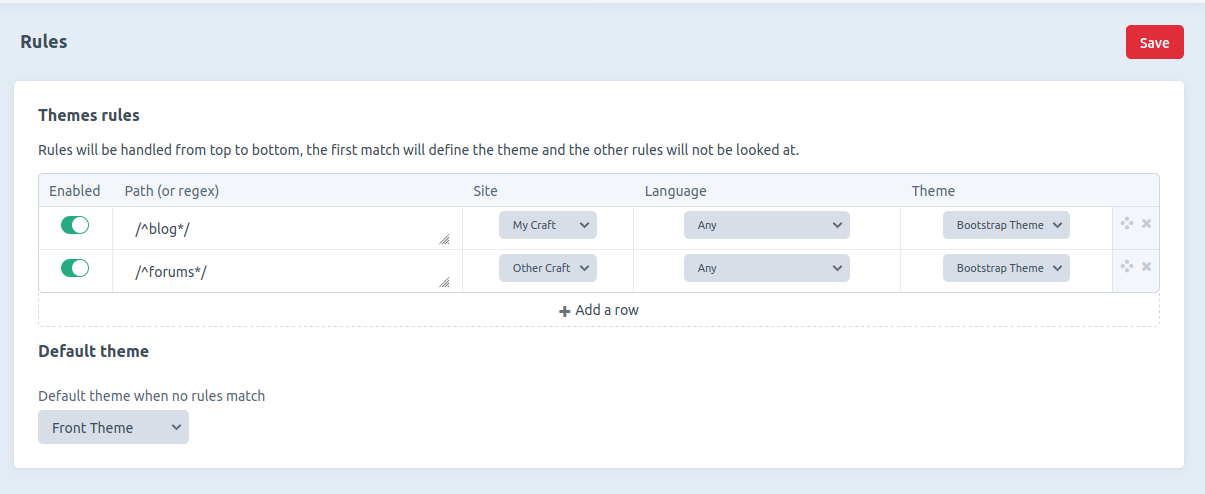
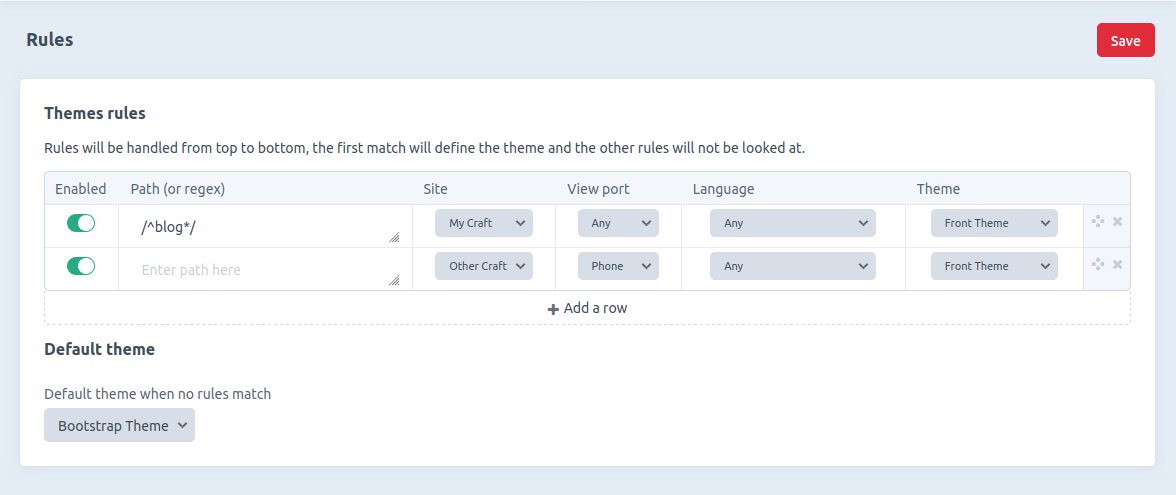
added view port rule

Changed region(s): [[0.0, 0.1518, 0.9796, 0.9717], [0.9184, 0.0304, 0.9796, 0.1215], [0.0, 0.0607, 0.0612, 0.1215]]

diff --git a/src/services/RulesService.php b/src/services/RulesService.php
@@ -7,6 +7,7 @@ use Ryssbowh\CraftThemes\events\ThemeEvent;
 use Ryssbowh\CraftThemes\interfaces\ThemeInterface;
 use craft\i18n\Locale;
 use craft\models\Site;
+use superbig\mobiledetect\MobileDetect;
 use yii\caching\TagDependency;
 
 class RulesService extends Service
@@ -44,7 +45,8 @@ class RulesService extends Service
         $path = \Craft::$app->request->getFullPath();
         $currentSite = \Craft::$app->sites->getCurrentSite();
         $currentUrl = $currentSite->getBaseUrl().$path;
-        $cached = $this->getCache($currentUrl);
+        $viewPort = $this->getViewPort();
+        $cached = $this->getCache($currentUrl, $viewPort);
         $theme = null;
         if ($cached === null) {
             return null;
@@ -52,8 +54,8 @@ class RulesService extends Service
         if (is_string($cached)) {
             $theme = Themes::$plugin->registry->getTheme($cached);
         } else {
-            $themeName = $this->resolveRules($path, $currentSite);
-            $this->setCache($currentUrl, $themeName);
+            $themeName = $this->resolveRules($path, $currentSite, $viewPort);
+            $this->setCache($currentUrl, $viewPort, $themeName);
             if ($themeName) {
                 $theme = Themes::$plugin->registry->getTheme($themeName);
             }
@@ -76,27 +78,28 @@ class RulesService extends Service
      * @param  string $url
      * @return ?string|false
      */
-    protected function getCache(string $url)
+    protected function getCache(string $url, string $viewPort)
     {
         if (!$this->cacheEnabled) {
             return false;
         }
-        $key = $this->cache->buildKey([self::CACHE_TAG, $url]);
+        $key = $this->cache->buildKey([self::CACHE_TAG, $url, $viewPort]);
         return $this->cache->get($key);
     }
 
     /**
-     * Set the theme name cache for an url
+     * Set the theme name cache
      * 
      * @param string $url
+     * @param string $viewPort
      * @param string $themeName
      */
-    protected function setCache(string $url, ?string $themeName)
+    protected function setCache(string $url, string $viewPort, ?string $themeName)
     {
         if (!$this->cacheEnabled) {
             return;
         }
-        $key = $this->cache->buildKey([self::CACHE_TAG, $url]);
+        $key = $this->cache->buildKey([self::CACHE_TAG, $url, $viewPort]);
         $dep = new TagDependency([
             'tags' => [self::CACHE_TAG]
         ]);
@@ -106,22 +109,27 @@ class RulesService extends Service
     /**
      * Resolve all defined rules, returns theme name
      * 
+     * @param  string $currentPath
+     * @param  Site   $currentSite
+     * @param  string $currentViewPort
      * @return ?string
      */
-    protected function resolveRules(string $path, Site $currentSite): ?string
+    protected function resolveRules(string $currentPath, Site $currentSite, string $currentViewPort): ?string
     {
         $themeName = null;
         foreach ($this->rules as $rule) {
             if (!$rule['enabled']) {
                 continue;
             }
-            $site = $language = $url = false;
+            $site = $language = $path = $viewPort = false;
             if ($site = $this->resolveSiteRule($rule['site'], $currentSite)) {
                 if ($language = $this->resolveLanguageRule($rule['language'], $currentSite->getLocale())) {
-                    $url = $this->resolvePathRule($rule['url'], $path);
+                    if ($path = $this->resolvePathRule($rule['url'], $currentPath)) {
+                        $viewPort = $this->resolveViewPortRule($rule['viewPort'], $currentViewPort);
+                    }
                 }
             }
-            if ($site and $language and $url) {
+            if ($site and $language and $path and $viewPort) {
                 $themeName = $rule['theme'];
                 break;
             }
@@ -131,9 +139,26 @@ class RulesService extends Service
         }
         return $themeName;
     }
+        
+    /**
+     * Get user's view port
+     * 
+     * @return string
+     */
+    protected function getViewPort(): string
+    {
+        $detect = MobileDetect::$plugin->mobileDetectService;
+        if ($detect->isPhone()) {
+            return 'phone';
+        }
+        if($detect->isTablet()) {
+            return 'tablet';
+        }
+        return 'desktop';
+    }
 
     /**
-     * Resolve the site part of a rule
+     * Resolves the site part of a rule
      * 
      * @param  string $ruleSite
      * @param  Site   $site
@@ -145,7 +170,7 @@ class RulesService extends Service
     }
 
     /**
-     * Reolsves the language part of a rule
+     * Resolves the language part of a rule
      * 
      * @param  string $ruleLanguage
      * @param  Locale $locale
@@ -157,7 +182,19 @@ class RulesService extends Service
     }
 
     /**
-     * Resolve the path part of a rule
+     * Resolves the view port part of a rule
+     * 
+     * @param  string $ruleViewPort
+     * @param  string $viewPort
+     * @return bool
+     */
+    protected function resolveViewPortRule(string $ruleViewPort, string $viewPort): bool
+    {
+        return ($ruleViewPort == '' or $viewPort == $ruleViewPort);
+    }
+
+    /**
+     * Resolves the path part of a rule
      * 
      * @param  string $ruleUrl
      * @param  string $path

diff --git a/src/controllers/CpRulesController.php b/src/controllers/CpRulesController.php
@@ -49,6 +49,17 @@ class CpRulesController extends Controller
                 'options' => ['' => \Craft::t('themes', 'Any')] + $sites,
                 'class' => 'site cell'
             ],
+            'viewPort' => [
+                'heading' => \Craft::t('themes', 'View port'),
+                'type' => 'select',
+                'options' => [
+                    '' => \Craft::t('themes', 'Any'),
+                    'phone' => \Craft::t('themes', 'Phone'),
+                    'tablet' => \Craft::t('themes', 'Tablet'),
+                    'desktop' => \Craft::t('themes', 'Desktop'),
+                ],
+                'class' => 'view-port cell'
+            ],
             'language' => [
                 'heading' => \Craft::t('themes', 'Language'),
                 'type' => 'select',

diff --git a/src/Themes.php b/src/Themes.php
@@ -441,6 +441,14 @@ class Themes extends \craft\base\Plugin
     /**
      * @inheritDoc
      */
+    protected function beforeInstall(): bool
+    {
+        return \Craft::$app->plugins->installPlugin('mobile-detect');
+    }
+
+    /**
+     * @inheritDoc
+     */
     protected function beforeUninstall(): bool
     {
         foreach ($this->registry->all() as $plugin) {

diff --git a/README.md b/README.md
@@ -97,6 +97,7 @@ Some display will contain items that are not fields, they are automatically adde
 Define rules in the settings to load the theme you want according to 3 parameters :
 - the current site
 - the current language
+- the current view port
 - the current url path, this can also be a regular expression if enclosed in slashes. example `/^blog*/`. Enter `/` for the homepage.
 
 The first rule that match will define which theme will be used. Organise your rules to have the most specific first.
